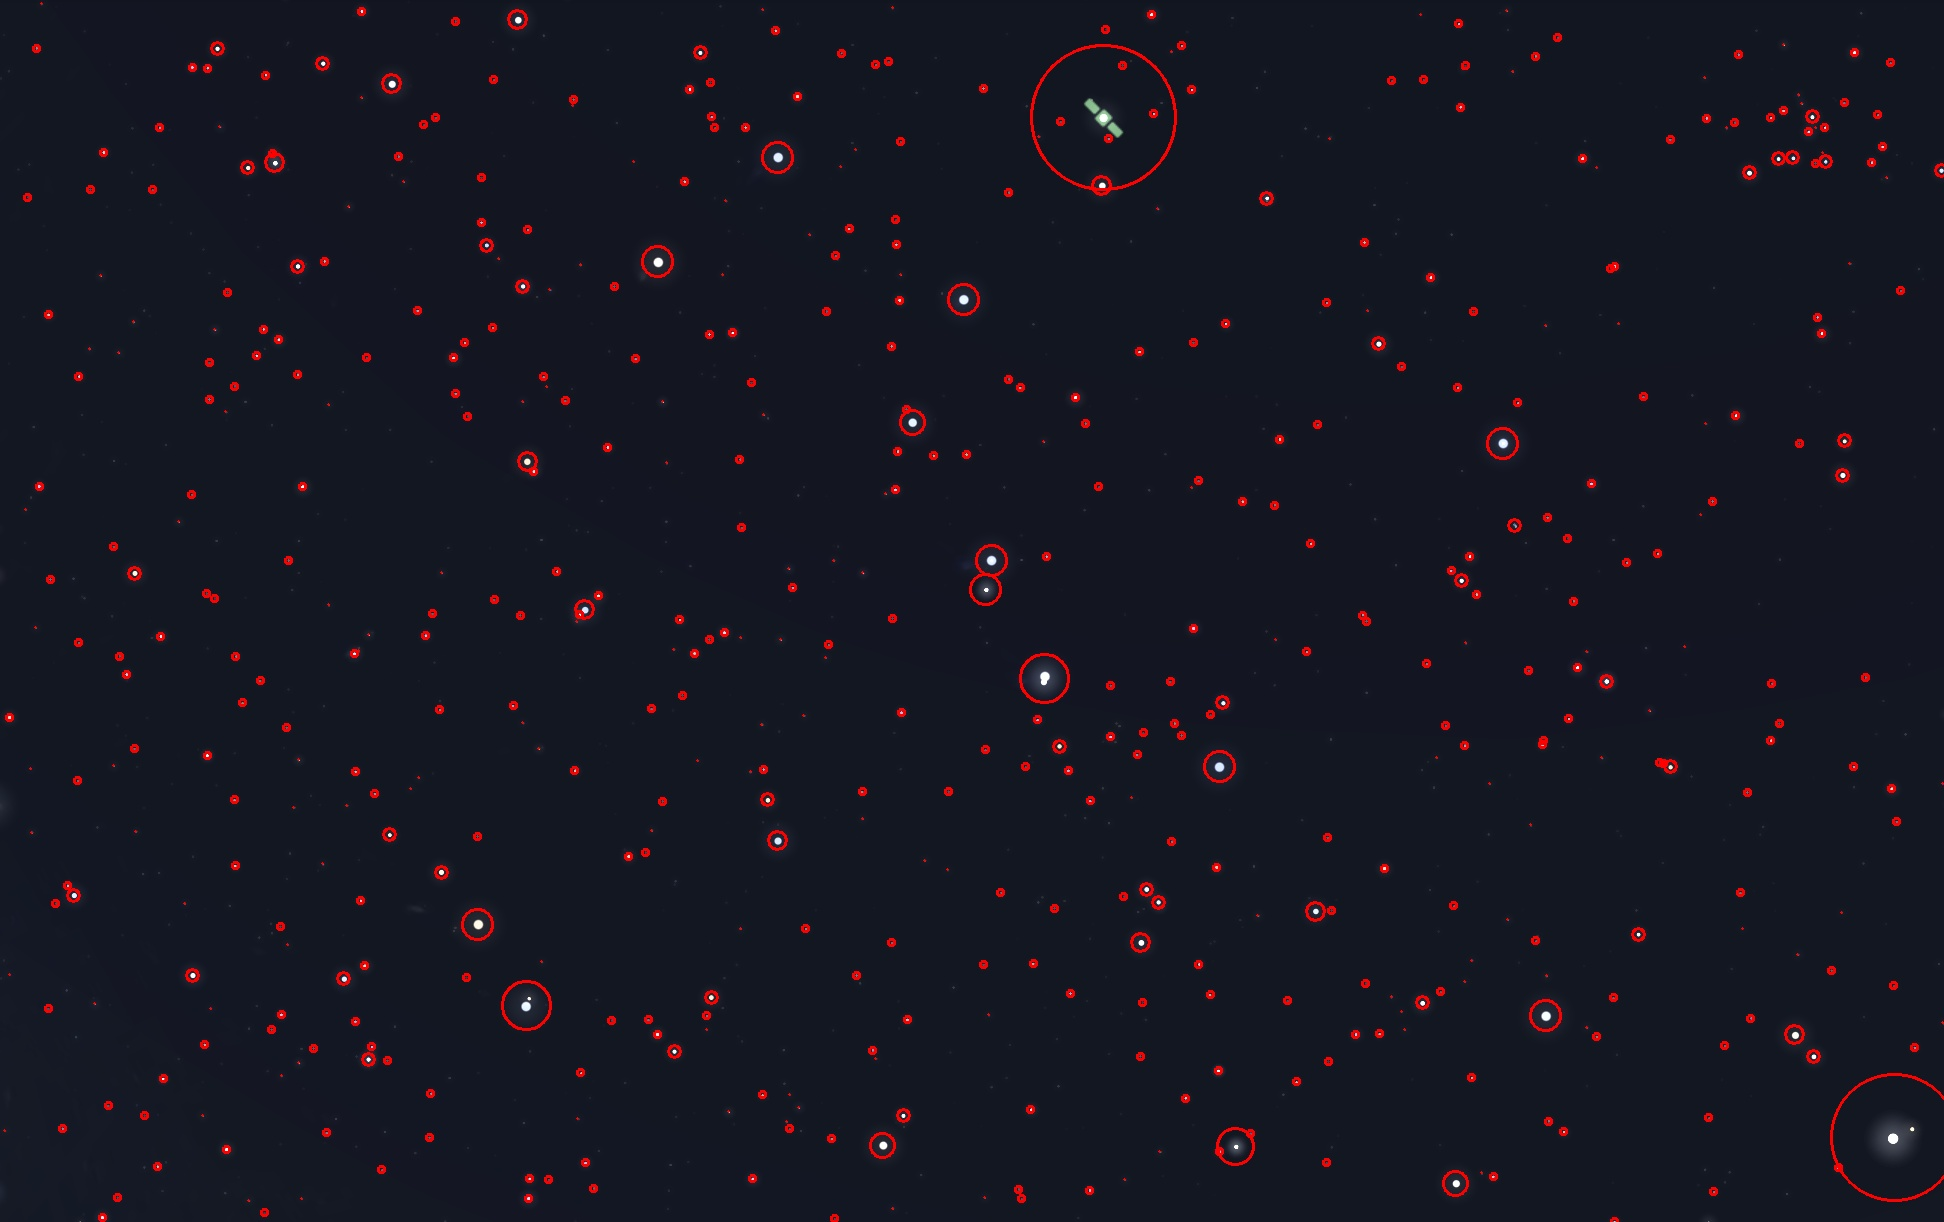
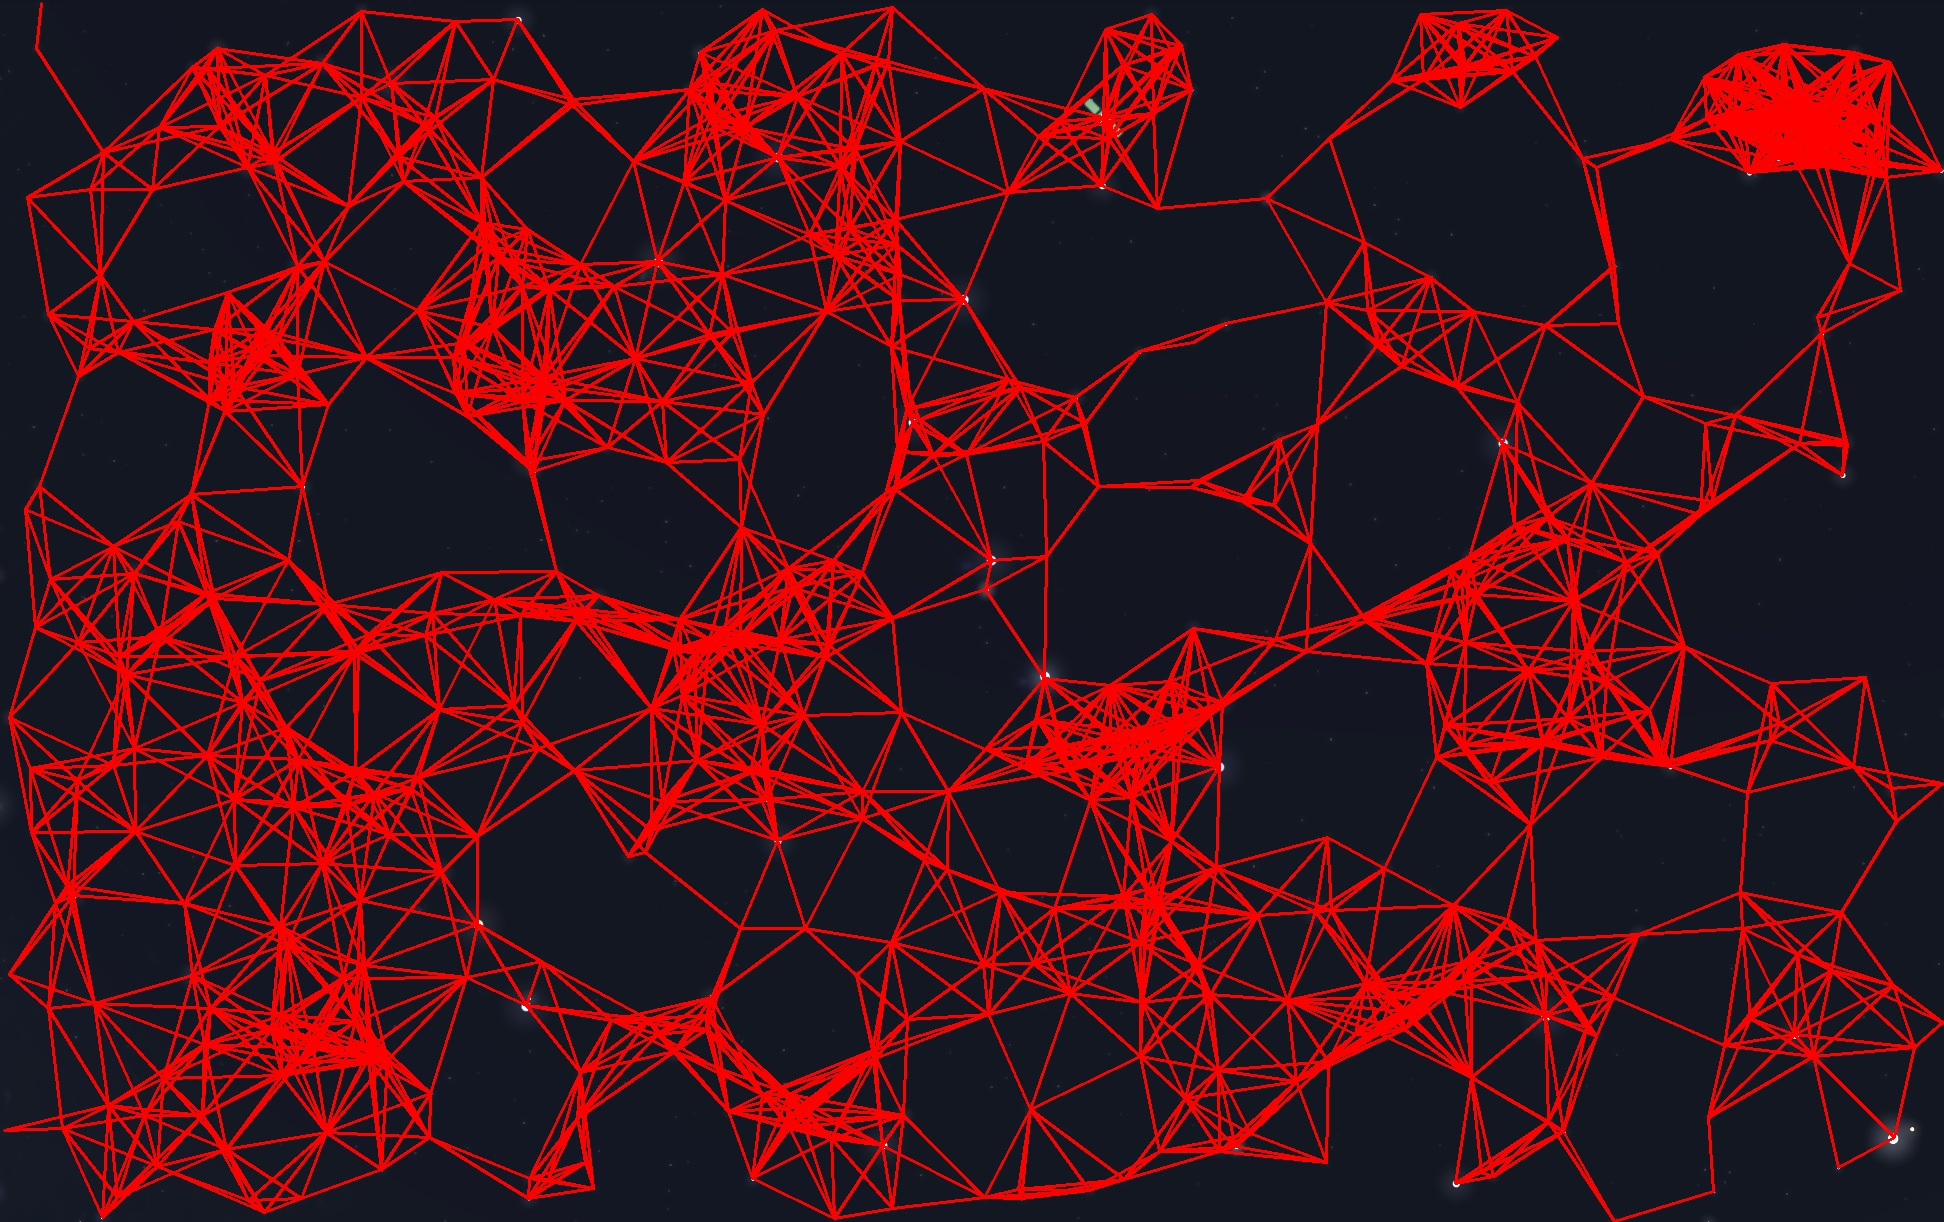
graph creation optimization

diff --git a/starmatcher.py b/starmatcher.py
@@ -3,10 +3,11 @@ from star import Star
 from linenode import LineNode
 import cv2
 import math
+from graph_utils import min_connecting_distance
 
 class StarMatcher: 
 
-    def __init__(self, brightness_threshold=200, min_cluster_size=3, max_graph_dist=800):
+    def __init__(self, brightness_threshold=200, min_cluster_size=3, max_graph_dist=None):
         """Create a new star identification object.
 
         Args:
@@ -25,6 +26,13 @@ class StarMatcher:
             stars (list[Star]): List of all the stars identified in the picture.
             max_dist (int, optional): The maximum distance where the stars will connect in the graph. Defaults to 500.
         """
+        dist = self.max_graph_dist
+
+        if not self.max_graph_dist:
+            dist = min_connecting_distance(stars)
+
+        print("dist = ", dist)
+
         lines : list[LineNode] = []
 
         # Create uniqe lines
@@ -35,7 +43,7 @@ class StarMatcher:
                 templine = LineNode(stars[i], stars[j])
                 
                 # Make sure length is valid
-                if templine.length > self.max_graph_dist: continue
+                if templine.length > dist: continue
                 
                 lines.append(templine)
                 stars[i].lines.append(templine)
@@ -126,195 +134,4 @@ class StarMatcher:
 
     @staticmethod 
     def match_stars(stars1 : list[Star], stars2 : list[Star], graph1 : list[LineNode], graph2 : list[LineNode], offset_width, min_matches=5, angle_offset=0.005, dist_offset=0.01, match_offset=None):
-        possible_matches : list[tuple[
-                LineNode,
-                LineNode,
-                list[tuple[LineNode, LineNode, int, int]]
-            ]] = []
-
-        angleoffset = 360 * angle_offset
-
-        if match_offset == None:
-            match_offset = 100000
-
-            for s1 in stars2: 
-                for s2 in stars2:       
-                    if s1 == s2: continue
-                    match_offset = min(match_offset, distance(s1.position, s2.position)) 
-            match_offset /= 2
-
-        def childrenSort(graph : list["LineNode"]): 
-            graph.sort(key=lambda line: len(line.children), reverse=True)
-
-        childrenSort(graph1)
-        childrenSort(graph2)
-
-        print("Sorted")
-
-        def test_lines(line1 : LineNode, line2 : LineNode): 
-            temp_matches = []
-            used_indexes1 = []
-            used_indexes2 = []
-
-            assumed_zoom = line1.length / line2.length
-
-            for i, child1 in enumerate(line1.children):
-                childline1, angle1 = child1
-                for j, child2 in enumerate(line2.children):
-                    childline2, angle2 = child2
-
-                    if abs(angle1 - angle2) < angleoffset and used_indexes1.count(i) == 0 and used_indexes2.count(j) == 0:
-                        if abs((childline2.length / childline1.length) / assumed_zoom - 1) > dist_offset:
-                            temp_matches.append((childline1, childline2))
-                            used_indexes1.append(i)
-                            used_indexes2.append(j)
-                    
-
-            if len(temp_matches) >= min_matches:
-                possible_matches.append((line1, line2, temp_matches))
-                return True
-            return False
-
-        print("Testing lines")
-
-        # Assume image was scaled proportionally - Compare angles only
-        for line1 in graph1:
-            if len(line1.children) < 2: continue
-
-            for line2 in graph2:
-                if len(line2.children) < 2: continue
-                result = test_lines(line1, line2)
-        
-        if len(possible_matches) == 0: return []
-        
-        possible_matches.sort(key=lambda obj: len(obj[2]), reverse=True)
-
-        correct_guess = possible_matches[0]
-
-        print("Finding orientation")
-        
-        line1, line2, matches = correct_guess
-
-        p1, p2 = line1.star1.position, line1.star2.position
-        p3, p4 = line2.star1.position, line2.star2.position
-
-        child1, child2 = matches[0]
-        is_p1 = line1.children1.count(child1) > 0
-        is_p3 = line2.children1.count(child2) > 0
-
-        print("p1 = ", p1)
-        print("p2 = ", p2)
-        print("p3 = ", p3)
-        print("p4 = ", p4)
-
-        if (is_p1 or not is_p3):
-            p3, p4 = p4, p3
-
-        if (not is_p1 or is_p3):
-            p1, p2 = p2, p1 
-
-        transform = transform_between_lines(p1, p2, p3, p4)
-
-        print("transform = ", transform)
-
-        # FINALLY! match the stars
-        img = cv2.imread("temp.jpg")
-
-        result : list[tuple[Star, Star]]= []        
-        transformed_positions = []
-        for star1 in stars1:
-            transformed_positions.append(apply_transform(transform, star1.position))
-        
-        for i in possible_matches:
-            l1, l2, m = i
-            color = (random.randint(0, 255),
-                    random.randint(0, 255),
-                    random.randint(0, 255))
-            
-            cv2.line(img, l1.star1.iposition, l1.star2.iposition, color, 2)
-            cv2.line(img, (l2.star1.iposition[0] + offset_width, l2.star1.iposition[1]), (l2.star2.iposition[0] + offset_width, l2.star2.iposition[1]), color, 2)
-
-        print("Applying transform")
-        for i, star2 in enumerate(stars2):
-            for j, pos in enumerate(transformed_positions):
-                if distance(star2.position, pos) < match_offset:
-                    result.append((stars1[j], star2))
-                    # cv2.line(img, stars1[j].iposition, (int(pos[0] + offset_width), pos[1]),  (random.randint(0, 255),
-                    # random.randint(0, 255),
-                    # random.randint(0, 255)), 2)
-                
-        cv2.circle(img, (int(p1[0]), int(p1[1])), 20, (255, 0,255), 5)
-        cv2.circle(img, (offset_width + int(p3[0]), int(p3[1])), 20, (255, 0,255), 5)
-        cv2.circle(img, (int(p2[0]), int(p2[1])), 20, (0, 255,255), 5)
-        cv2.circle(img, (offset_width + int(p4[0]), int(p4[1])), 20, (0, 255,255), 5)
-
-        # for i, j in matches:
-        #     print(f"{i} matches {j}")
-
-        cv2.imwrite("temp2.jpg", img)
-        return result
-
-def distance(a, b):
-    return math.hypot(b[0] - a[0], b[1] - a[1])
-
-def angle_between(v1, v2):
-    dot = v1[0]*v2[0] + v1[1]*v2[1]
-    det = v1[0]*v2[1] - v1[1]*v2[0]
-    return math.atan2(det, dot)
-
-def distance(a, b):
-    return math.hypot(b[0] - a[0], b[1] - a[1])
-
-def angle_between(v1, v2):
-    dot = v1[0]*v2[0] + v1[1]*v2[1]
-    det = v1[0]*v2[1] - v1[1]*v2[0]
-    return math.atan2(det, dot)
-
-def transform_between_lines(p1, p2, p3, p4):
-    # Vector from p1 to p2 and p3 to p4
-    v1 = (p2[0] - p1[0], p2[1] - p1[1])
-    v2 = (p4[0] - p3[0], p4[1] - p3[1])
-
-    # Scale
-    len1 = distance(p1, p2)
-    len2 = distance(p3, p4)
-    scale = len2 / len1 if len1 != 0 else 0
-
-    # Rotation
-    angle = angle_between(v1, v2) 
-
-    # Final translation: align transformed p1 with p3
-    translation = p3  # we’ll apply rotation & scale around p1, then shift to p3
-
-    return {
-        'scale': scale,
-        'rotation_radians': angle,
-        'rotation_degrees': math.degrees(angle),
-        'origin': p1,
-        'translation': translation
-    }
-
-def apply_transform(transform, point):
-    scale = transform['scale']
-    angle = transform['rotation_radians']
-    ox, oy = transform['origin']
-    tx, ty = transform['translation']
-
-    # Step 1: Translate point so origin becomes (0,0)
-    px, py = point[0] - ox, point[1] - oy
-
-    # Step 2: Scale
-    px *= scale
-    py *= scale
-
-    # Step 3: Rotate
-    cos_a = math.cos(angle)
-    sin_a = math.sin(angle)
-    x_rot = cos_a * px - sin_a * py
-    y_rot = sin_a * px + cos_a * py
-
-    # Step 4: Translate to final position
-    x_final = x_rot + tx
-    y_final = y_rot + ty
-
-    return (int(x_final), int(y_final))
+        pass

diff --git a/stars.py b/stars.py
@@ -2,23 +2,23 @@ import cv2
 from starmatcher import StarMatcher, Star, LineNode
 import utils
 
-matcher = StarMatcher(60, max_graph_dist=100)
+matcher = StarMatcher(60)
 
-#stars1 = matcher.detect_stars("ST_db1.png")
-#stars2 = matcher.detect_stars("ST_db2.png")
+stars1 = matcher.detect_stars("ST_db1.png")
+stars2 = matcher.detect_stars("ST_db2.png")
 
-#graph1 = matcher.build_graph(stars1)
-#graph2 = matcher.build_graph(stars2)
+graph1 = matcher.build_graph(stars1)
+graph2 = matcher.build_graph(stars2)
 
-# utils.draw_constellations("ST_db1.png", matcher, "graph1.jpg")
-# utils.draw_constellations("ST_db2.png", matcher, "graph2.jpg")
+utils.draw_constellations("ST_db1.png", matcher, "graph1.jpg")
+utils.draw_constellations("ST_db2.png", matcher, "graph2.jpg")
 
-utils.draw_stars("ST_db1.png", matcher, "graph1.jpg")
-utils.draw_stars("ST_db2.png", matcher, "graph2.jpg")
+# utils.draw_stars("ST_db1.png", matcher, "graph1.jpg")
+# utils.draw_stars("ST_db2.png", matcher, "graph2.jpg")
 
-utils.connect_images("graph1.jpg", "graph2.jpg", output_path="temp.jpg")
+# utils.connect_images("graph1.jpg", "graph2.jpg", output_path="temp.jpg")
 
-matches = matcher.detect_matching_stars("ST_db1.png", "ST_db2.png", min_matches=15, match_offset=5)
+# matches = matcher.detect_matching_stars("ST_db1.png", "ST_db2.png", min_matches=15, match_offset=5)
 
 # utils.draw_constellations("fr1.jpg", matcher, "graph1.jpg")
 # utils.draw_constellations("zoomed.jpg", matcher, "graph2.jpg")
@@ -27,7 +27,7 @@ matches = matcher.detect_matching_stars("ST_db1.png", "ST_db2.png", min_matches=
 
 # matches = matcher.detect_matching_stars("fr1.jpg", "zoomed.jpg", min_matches=5)
 
-print("total matches found : ", len(matches))
+# print("total matches found : ", len(matches))
 # for i, j in matches:
 #     print(f"{i} matches {j}")
 

diff --git a/graph_utils.py b/graph_utils.py
@@ -1,0 +1,53 @@
+
+from itertools import combinations
+import math
+
+from star import Star
+
+
+class UnionFind:
+    def __init__(self, n):
+        self.parent = list(range(n))
+    
+    def find(self, a):
+        while self.parent[a] != a:
+            self.parent[a] = self.parent[self.parent[a]]
+            a = self.parent[a]
+        return a
+    
+    def union(self, a, b):
+        ra = self.find(a)
+        rb = self.find(b)
+        if ra != rb:
+            self.parent[rb] = ra
+            return True
+        return False
+
+def euclidean(p1, p2):
+    return math.hypot(p1[0] - p2[0], p1[1] - p2[1])
+
+def min_connecting_distance(points : list[Star]):
+    n = len(points)
+    edges = []
+
+    # Step 1: Compute all pairwise distances
+    for i, j in combinations(range(n), 2):
+        dist = euclidean(points[i].position, points[j].position)
+        edges.append((dist, i, j))
+
+    # Step 2: Sort by distance
+    edges.sort()
+
+    # Step 3: Kruskal's algorithm
+    uf = UnionFind(n)
+    max_edge = 0
+    edge_count = 0
+
+    for dist, i, j in edges:
+        if uf.union(i, j):
+            max_edge = max(max_edge, dist)
+            edge_count += 1
+            if edge_count == n - 1:  # MST is complete
+                break
+
+    return max_edge

diff --git a/utils.py b/utils.py
@@ -1,3 +1,4 @@
+from itertools import combinations
 import math
 import random
 import cv2
